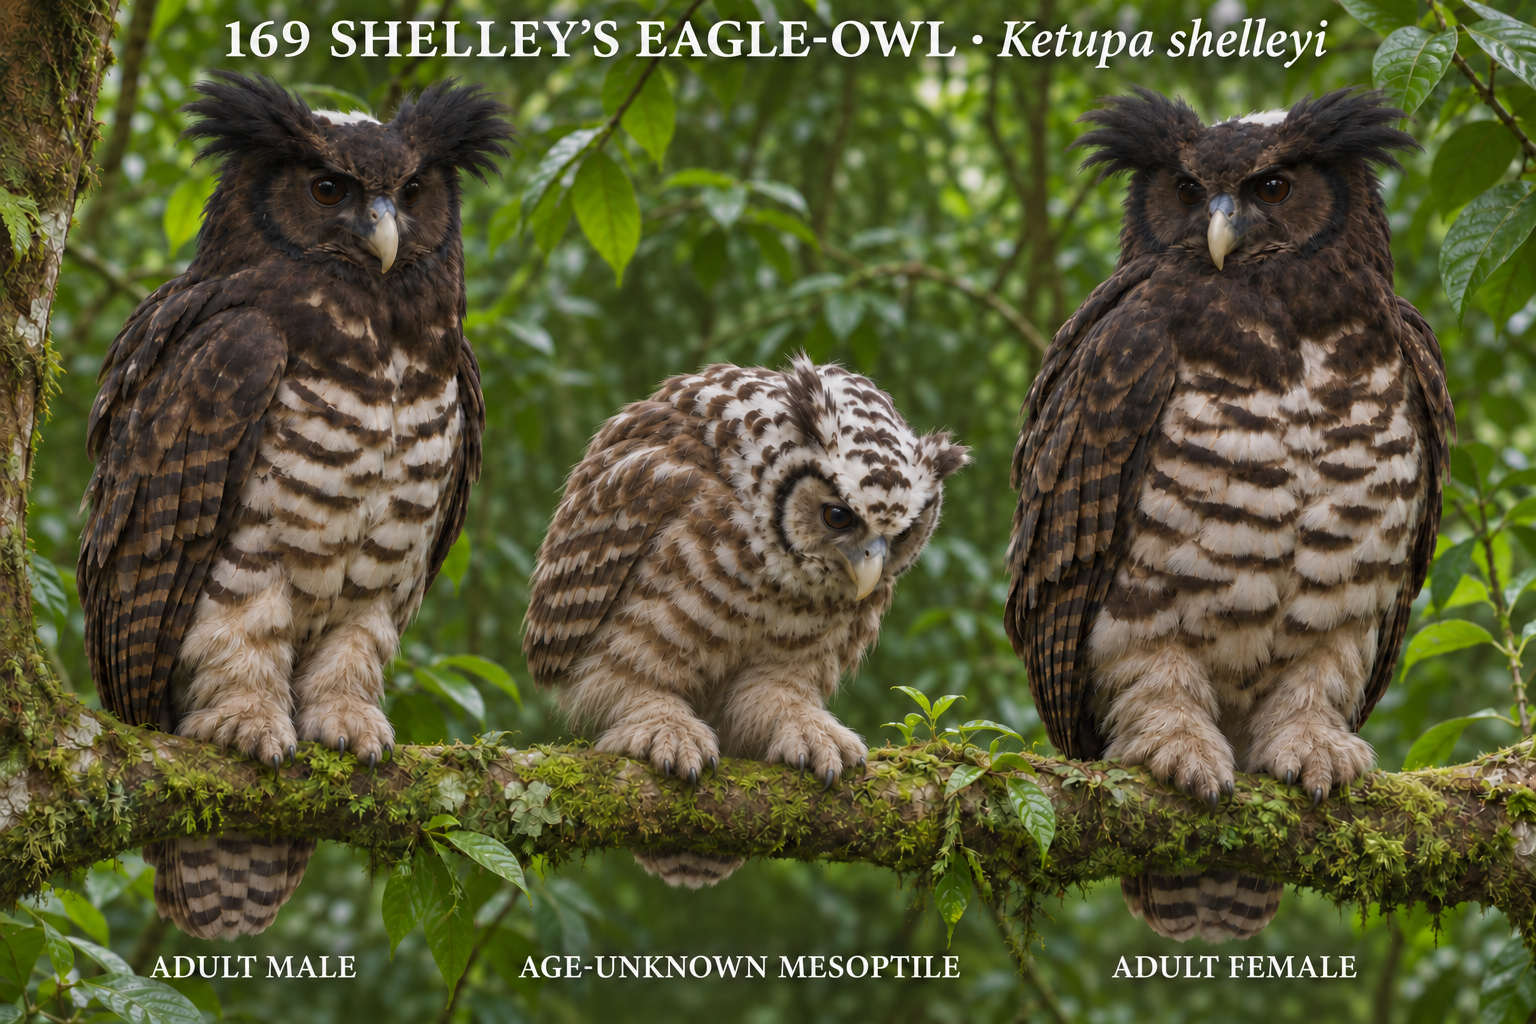
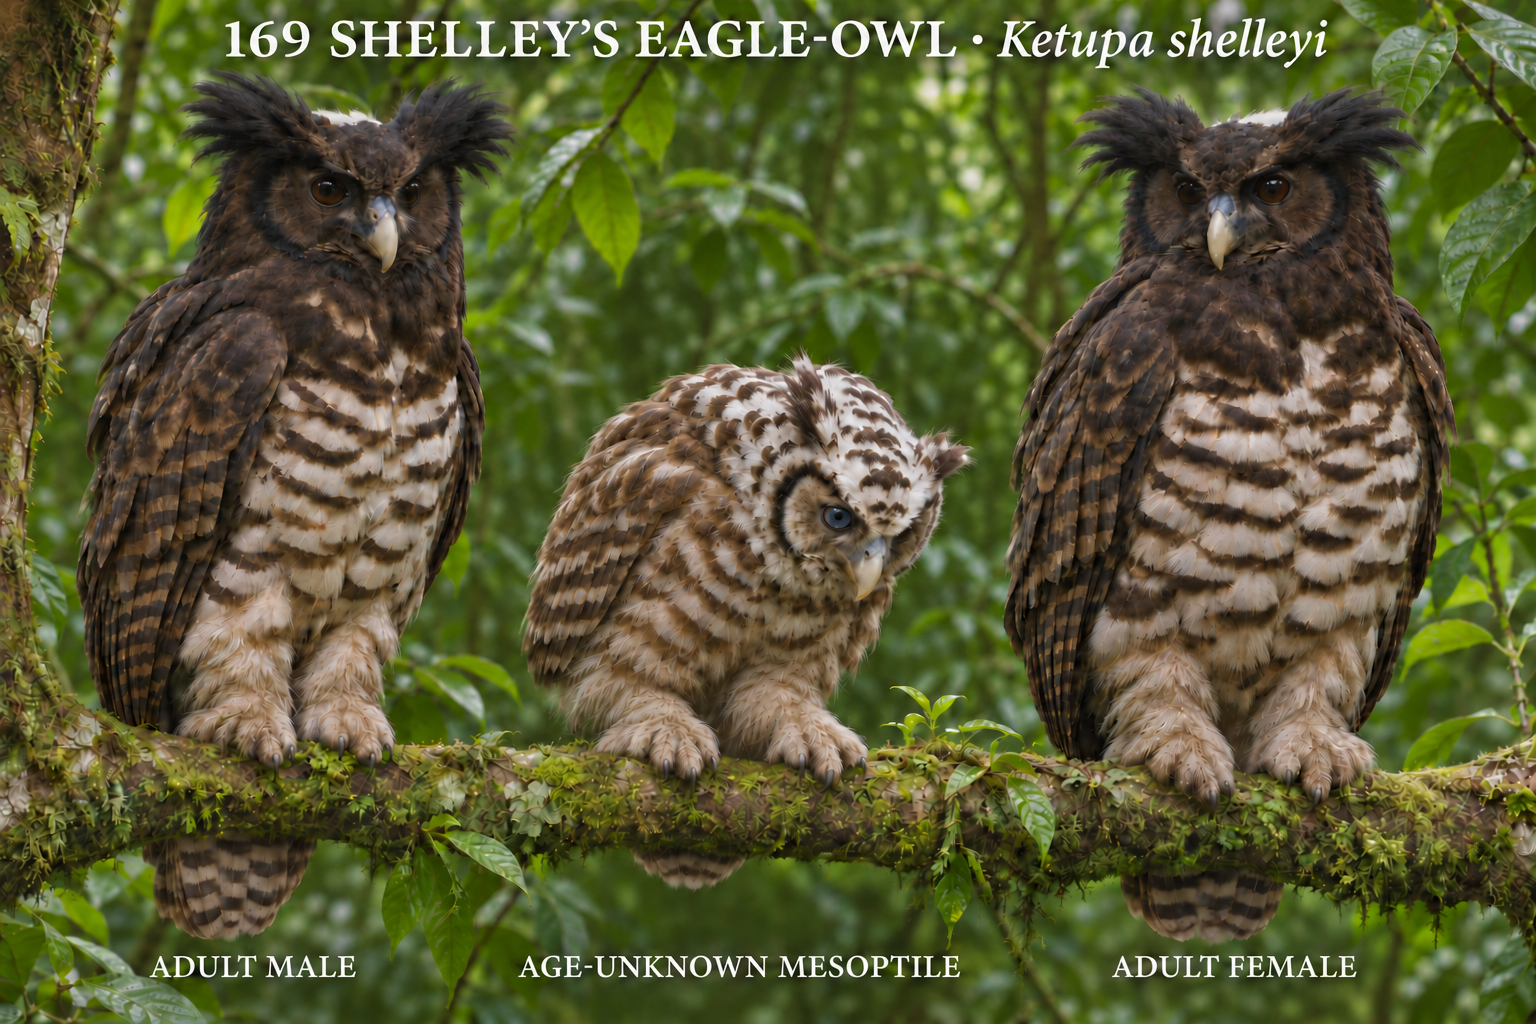
owl-pet: persist generated 169-ketupa-shelleyi-v5

diff --git a/owl-pet/production/runs/20261124T0936Z-cycle6.md b/owl-pet/production/runs/20261124T0936Z-cycle6.md
@@ -10,3 +10,7 @@ Firstedit fullview plus actual6×eyecrop revealed outeririsannulusstillwarmbrown
 Edit2 2026-11-24T10:05:37.223Z→2026-11-24T10:06:13.815Z actualwait31.3s; actual6×cropagainshowsouteririsstillbrown. RequiredfeatureNOTfixed despiteprompt, noPASS/noVERIFIED yet. Thirdattemptuses supportingzoom todisambiguatetarget. Earlierfull-viewappearancewasinsufficient.
 
[1 lines of base64/hex data omitted]
+
+Edit3 2026-11-24T10:07:03.959Z→2026-11-24T10:07:43.174Z actualwait32.1s. Fullplateactualview: juvenilevisibleirisnowclearsubduedslatebluegrey, bothadultirisesbrownretained; independent6×eyecropreviewperformed. Colourisguide-levelprovisional notcalibratedagedphoto.
+
[1 lines of base64/hex data omitted]
